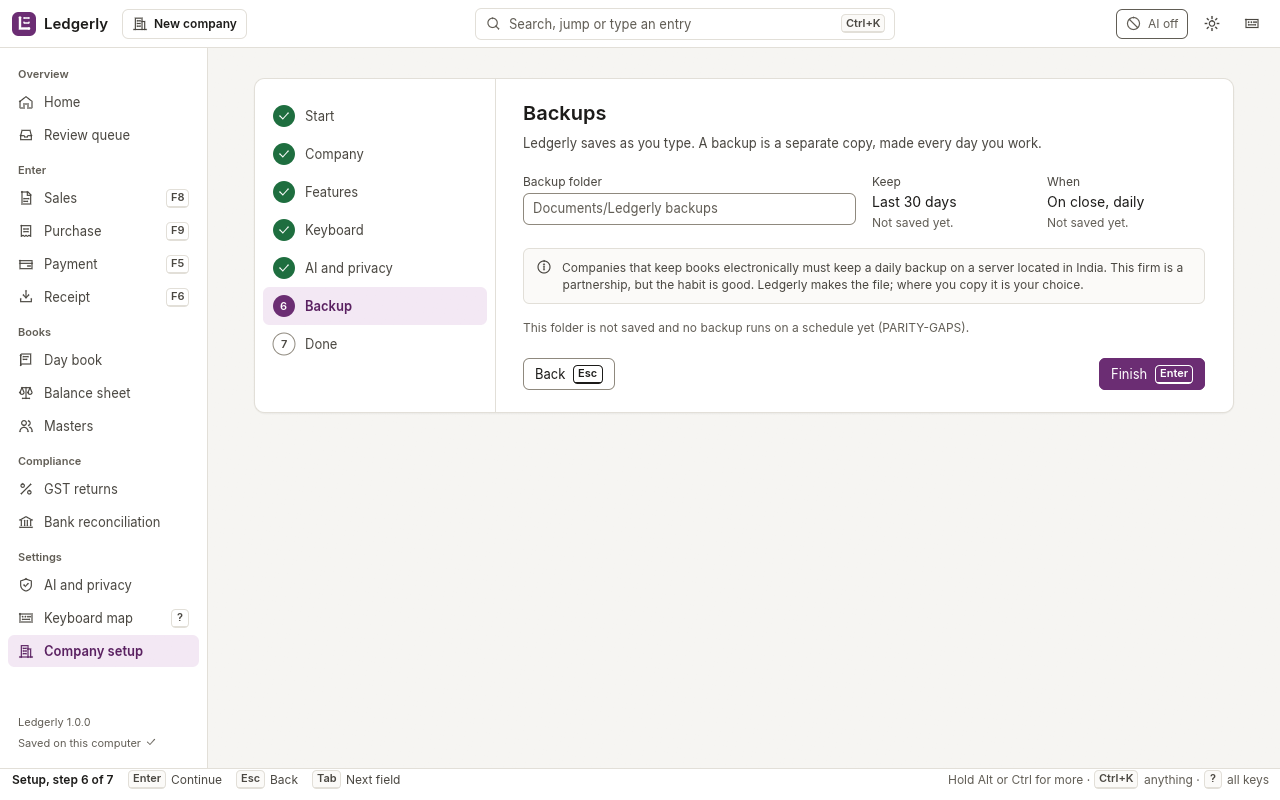
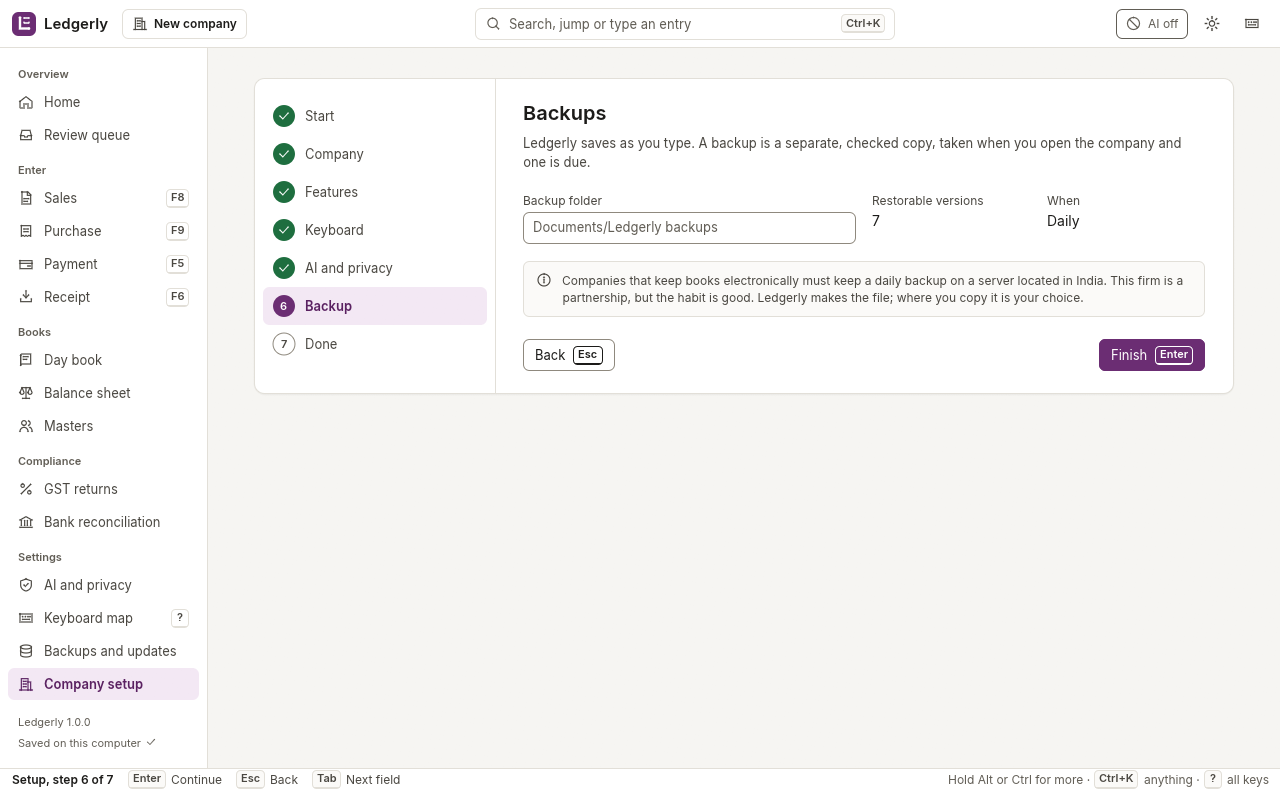
Capture the backup screen in the app snapshots
Adds backup.default, backup.backed-up, backup.restore and
backup.updates-off to ui_snapshots, captured in light, dark and hc,
and recaptures setup.backup. COMPARE.md lists the new pairs.

Tests: none (captures only).

diff --git a/crates/ledgerly-app/examples/ui_snapshots.rs b/crates/ledgerly-app/examples/ui_snapshots.rs
@@ -2030,6 +2030,37 @@ fn light_shots() -> Vec<Shot> {
         shot("ai-settings.off", &[palette])
             .query("AI and privacy")
             .then(&[(Key::Enter, NONE), (Key::Num1, NONE)]),
+        // Backups and updates (round s23), reached from the palette. Alt+B backs up into
+        // Backups beside the capture file; Enter opens the restore pane for the newest backup;
+        // 2 is the Updates tab, off as it is by default.
+        shot("backup.default", &[palette])
+            .query("Backups and updates")
+            .then(&[(Key::Enter, NONE)])
+            .wait(60)
+            .expect("Backups and updates", None),
+        shot("backup.backed-up", &[palette])
+            .query("Backups and updates")
+            .then(&[(Key::Enter, NONE)])
+            .wait(60)
+            .press(&[(Key::B, Modifiers::ALT)])
+            .wait(120)
+            .expect("Backups and updates", None),
+        shot("backup.restore", &[palette])
+            .query("Backups and updates")
+            .then(&[(Key::Enter, NONE)])
+            .wait(60)
+            .press(&[(Key::B, Modifiers::ALT)])
+            .wait(120)
+            .press(&[(Key::Enter, NONE)])
+            .wait(10)
+            .expect("Backups and updates", None),
+        shot("backup.updates-off", &[palette])
+            .query("Backups and updates")
+            .then(&[(Key::Enter, NONE)])
+            .wait(30)
+            .press(&[(Key::Num2, NONE)])
+            .wait(10)
+            .expect("Backups and updates", None),
         // The tabs are 1 GSTR-1, 2 GSTR-3B, 3 reconciliation (`screens/gst.rs`). The capture
         // company has no 2B data, so the reconciliation tab is the mock's empty state.
         shot("gst.gstr3b", &[(Key::G, NONE), (Key::Num2, NONE)])
